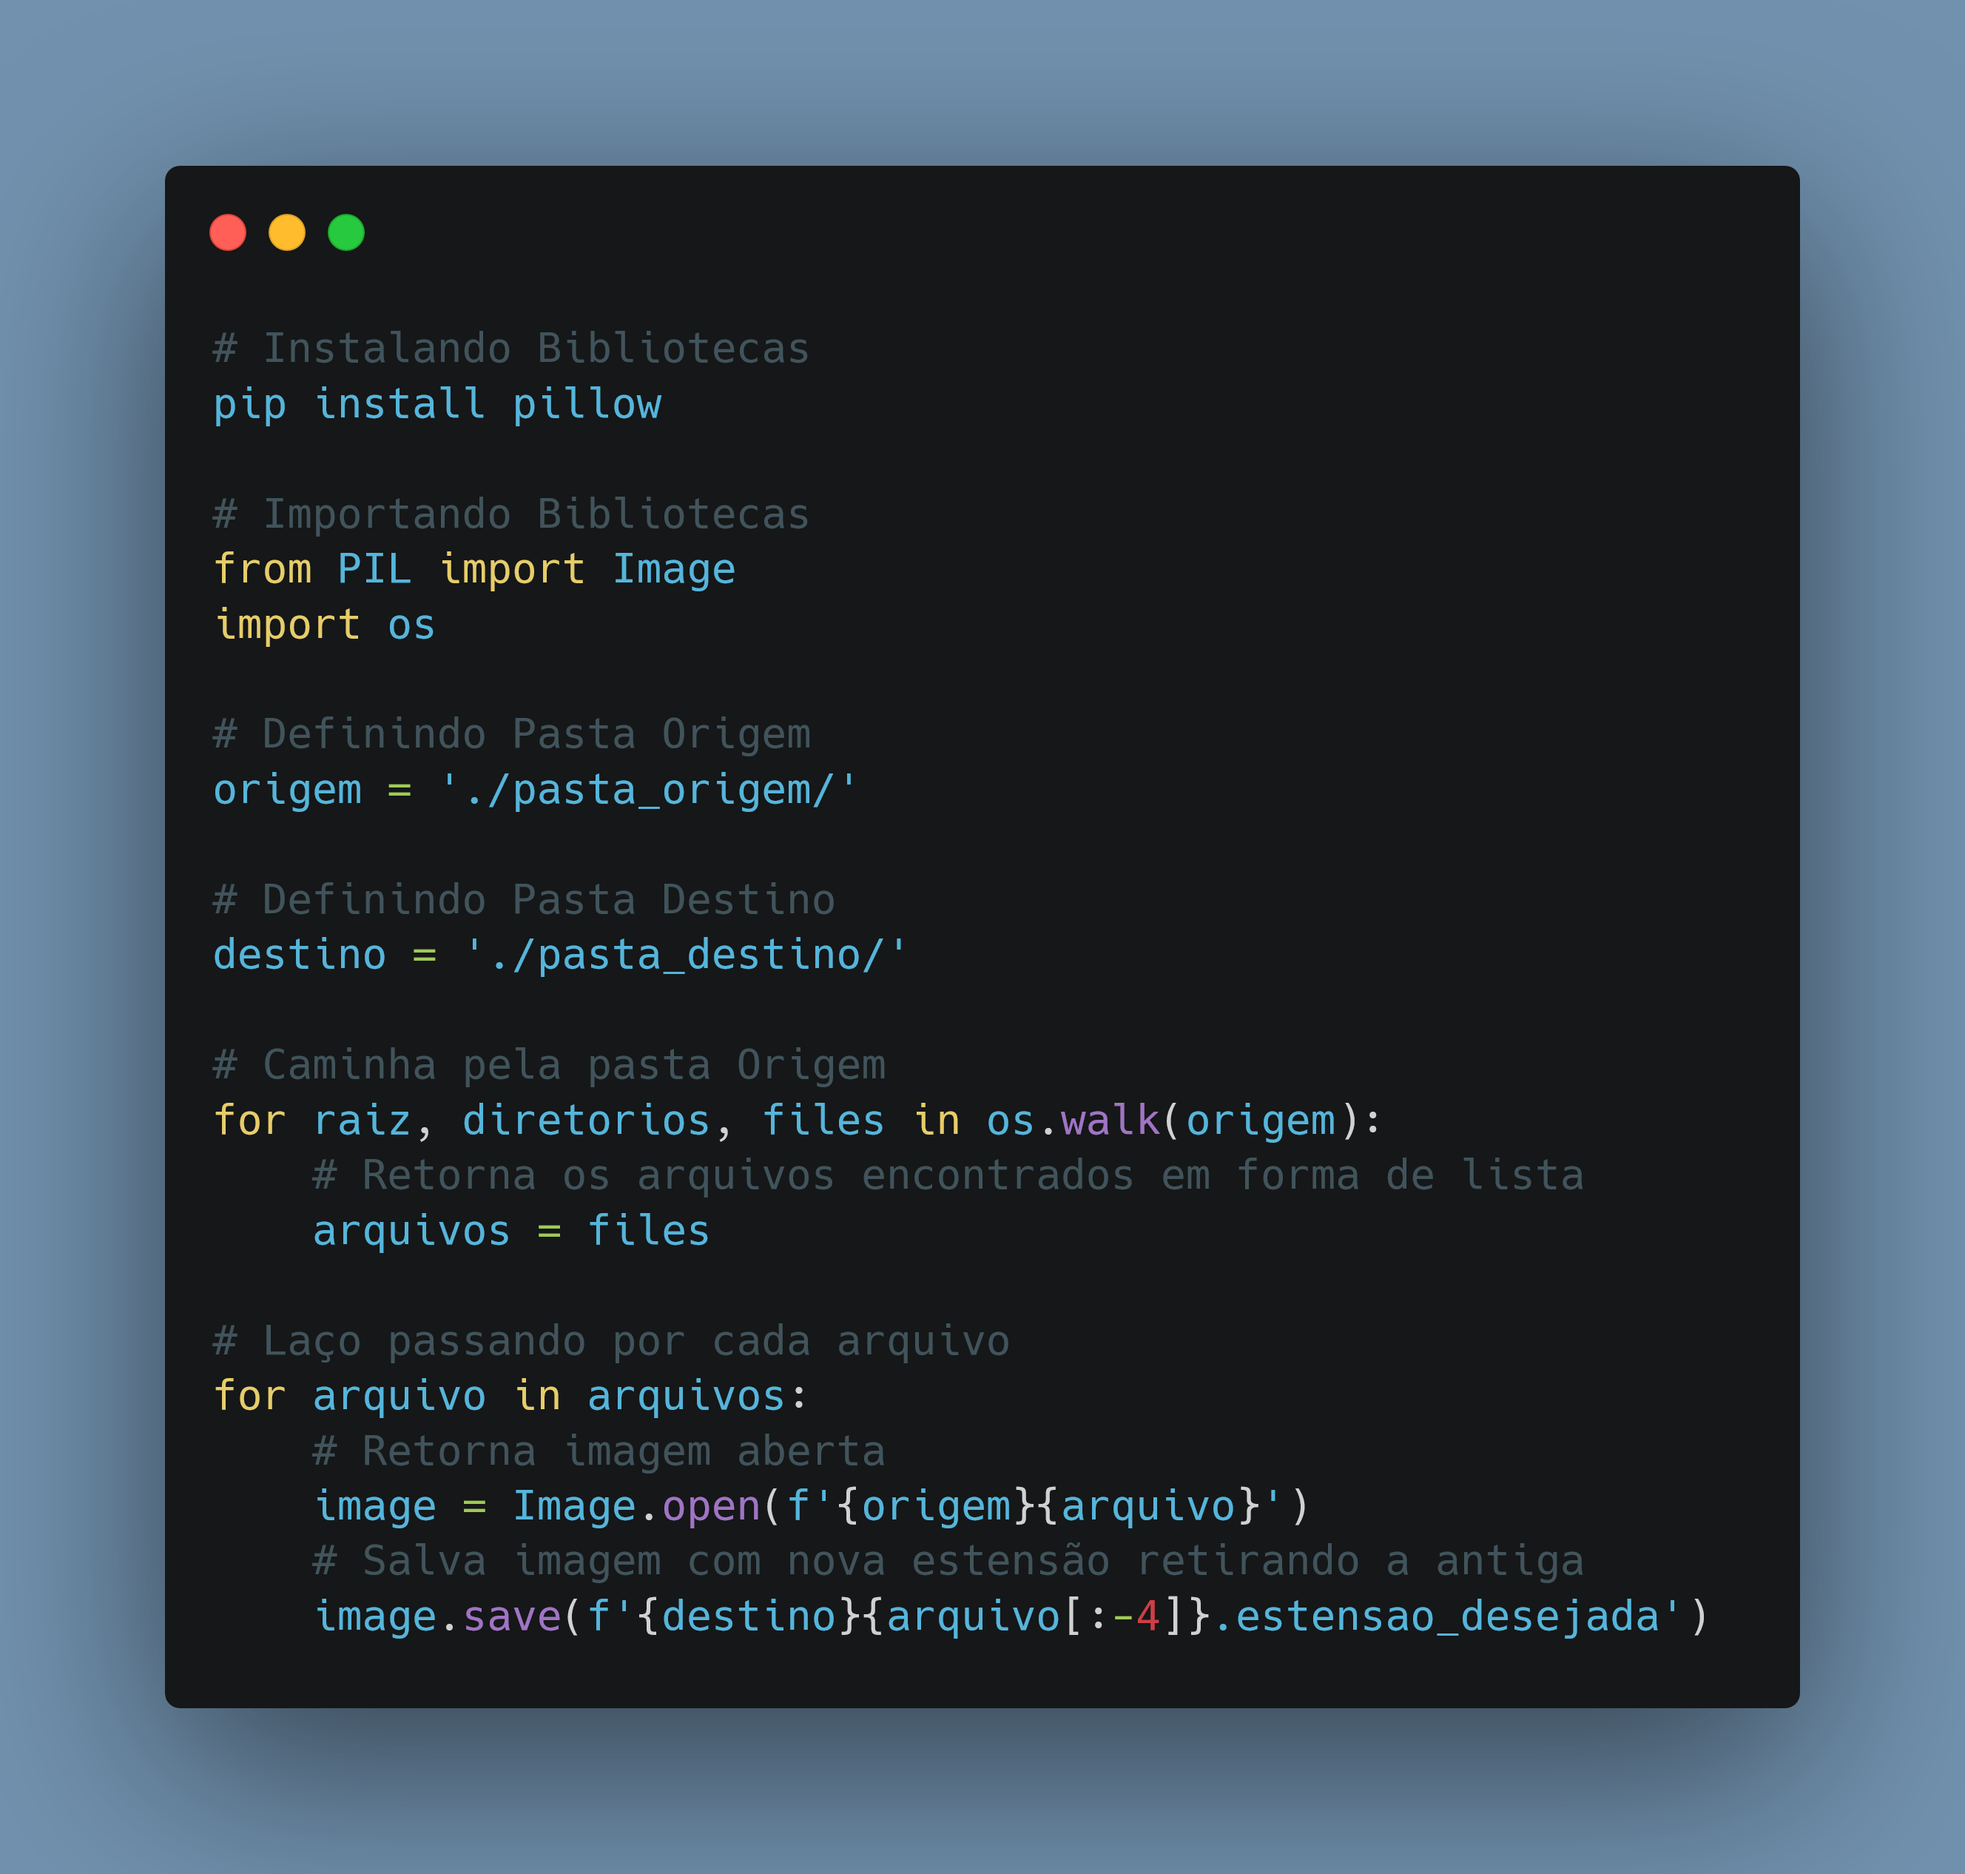
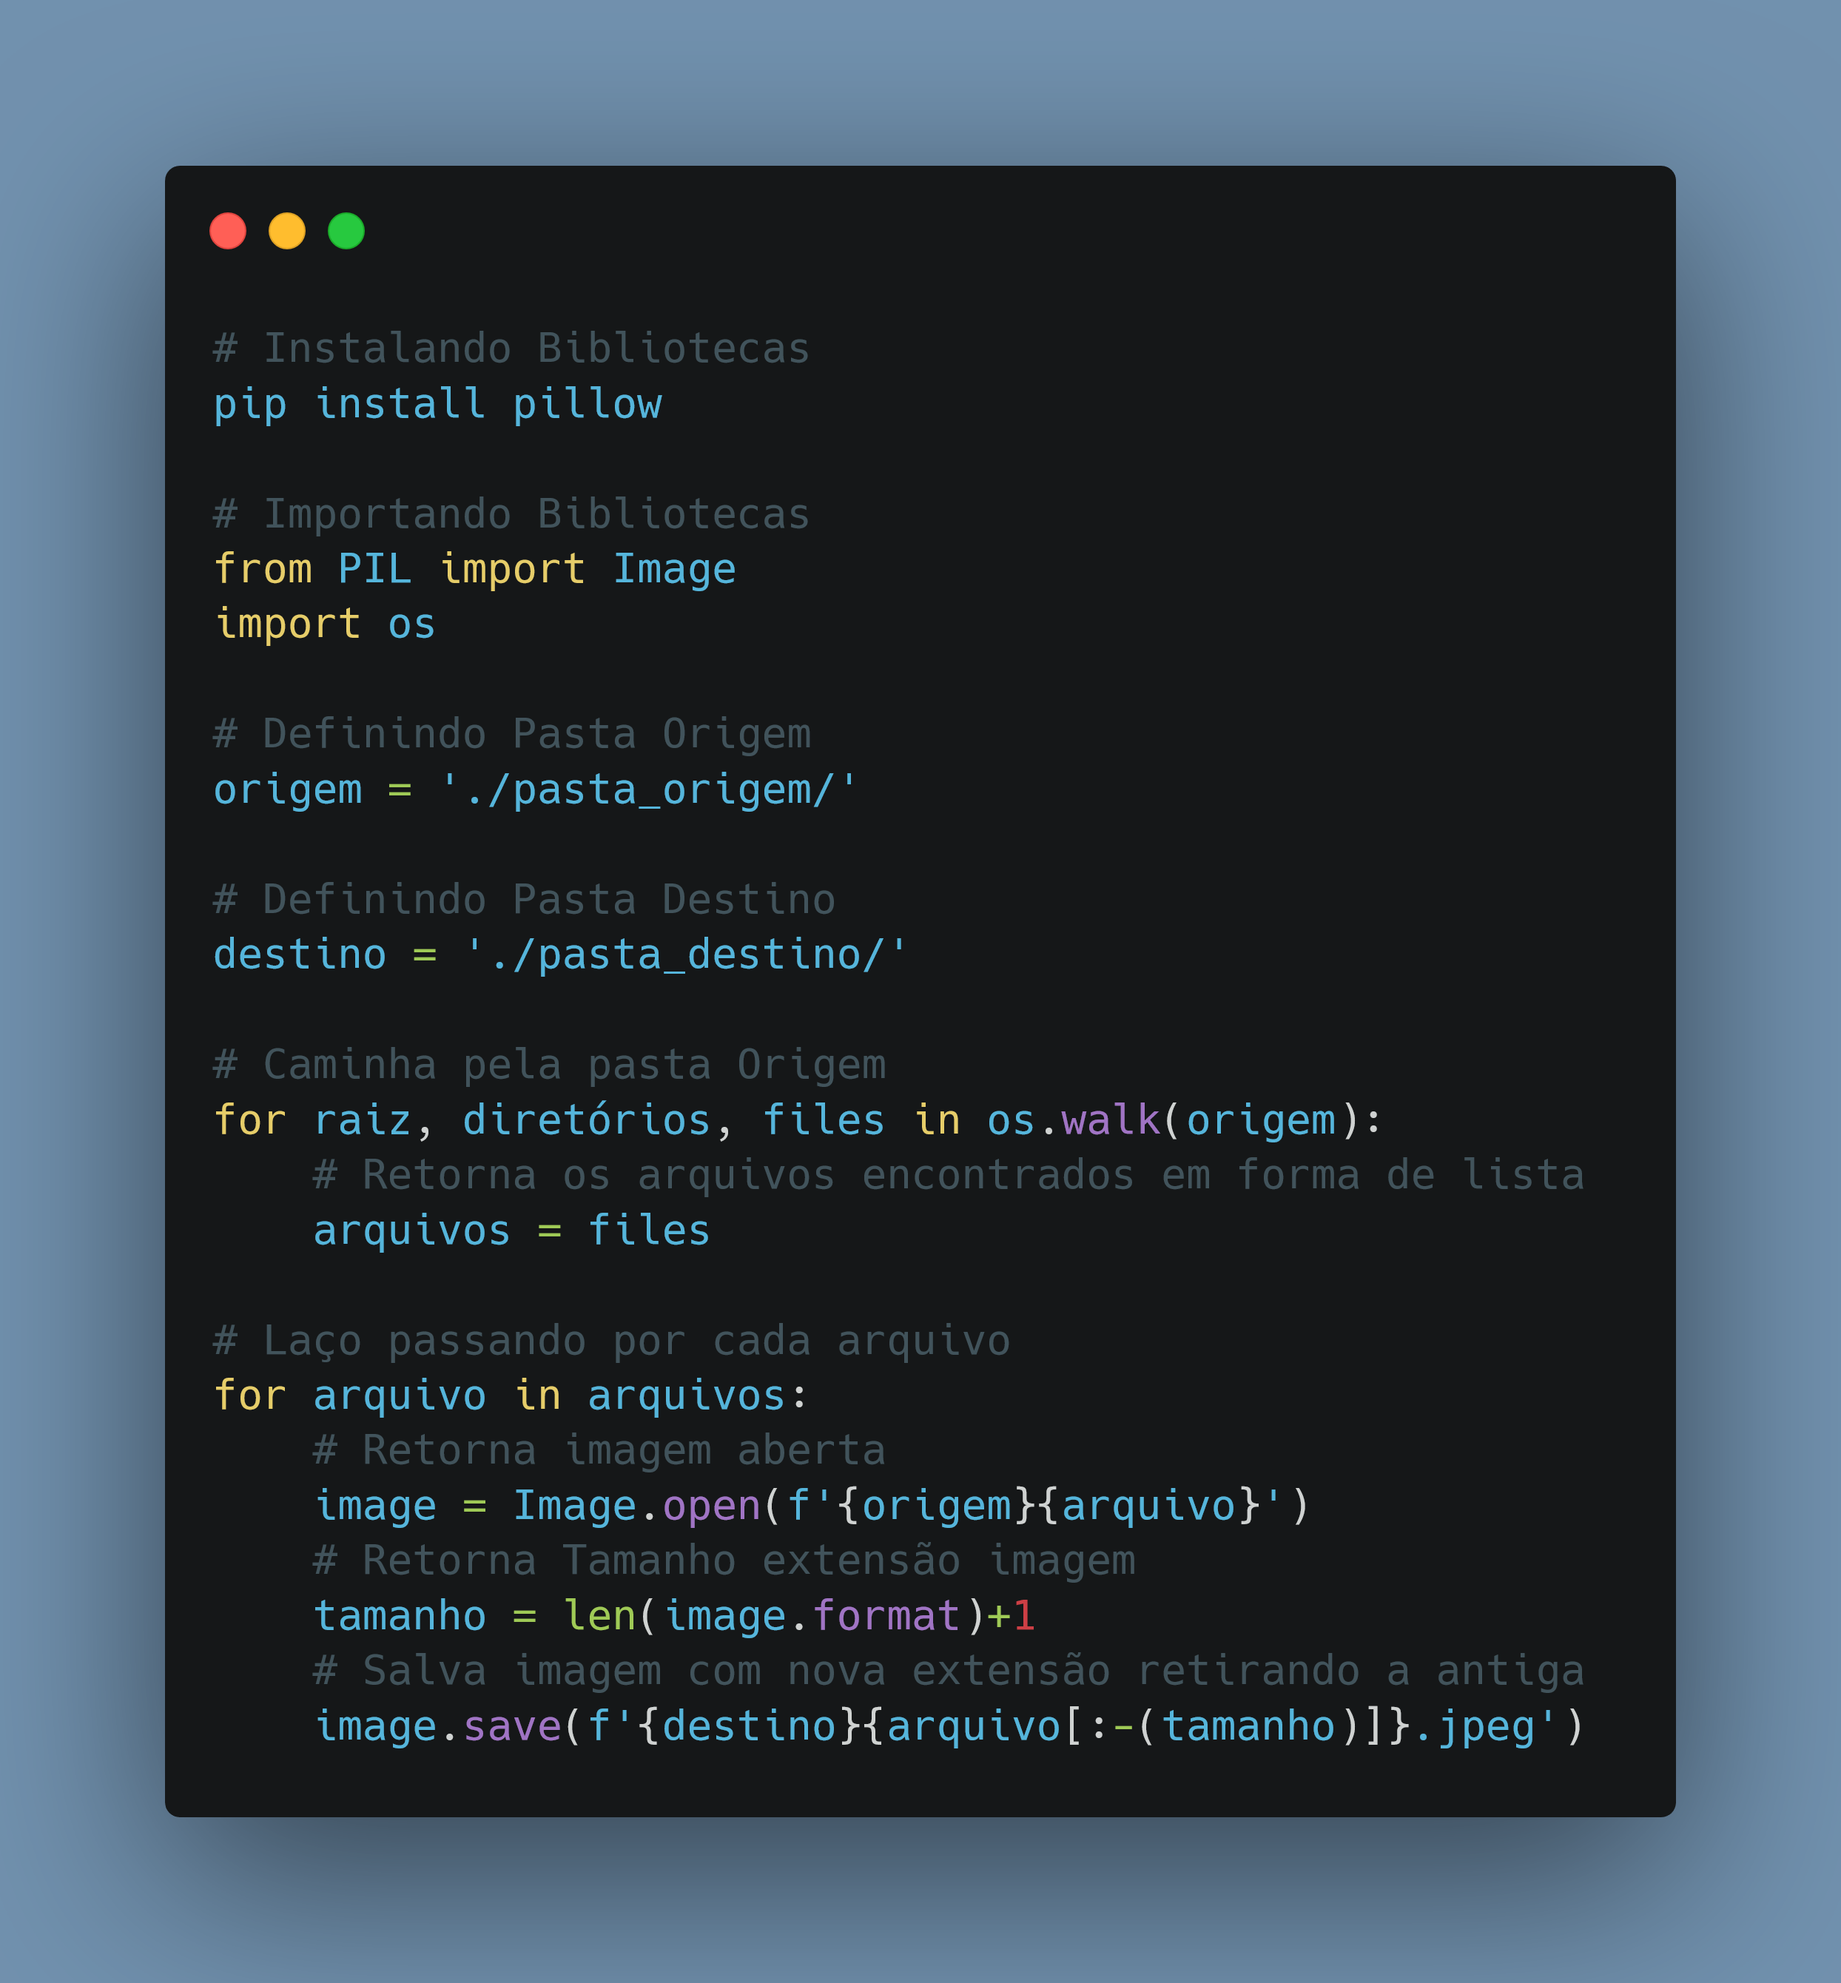
atualizando post dia 2

diff --git a/Dia_02_importanto_e_convertendo_imagens_pillow/main.py b/Dia_02_importanto_e_convertendo_imagens_pillow/main.py
@@ -18,4 +18,6 @@ destino = './pasta_destino/'
 # Um laço para salvar os arquivos em sua nova estensão
 for arquivo in arquivos:
     image = Image.open(f'{origem}{arquivo}') # Retorna a imagem aberta
-    image.save(f'{destino}{arquivo[:-4]}.estensao_desejada') # Salva a imagem em sua nova estensão
+    image.save(f'{destino}{arquivo[:-(len(image.format)+1)]}.estensao_desejada') # Salva a imagem em sua nova estensão
+
+    print(len(image.format)+1)
